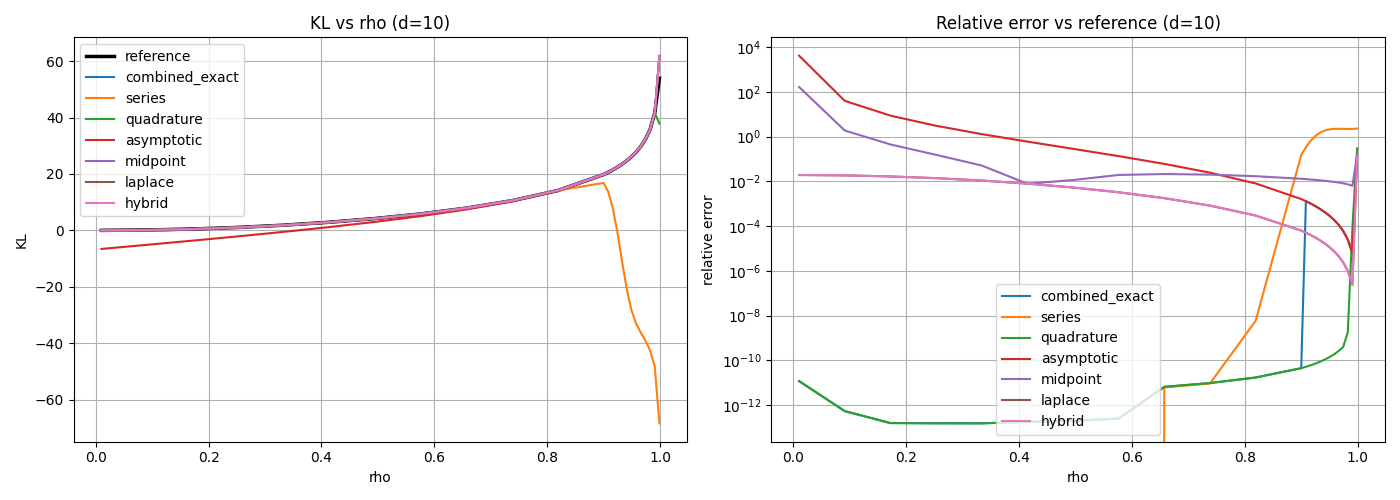
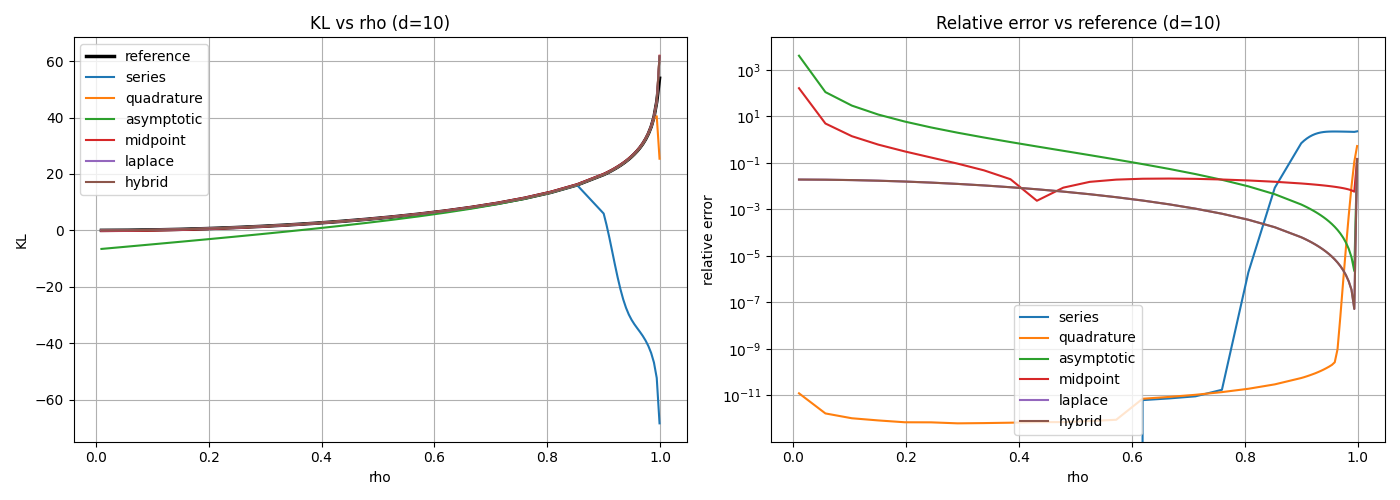
better comparison

diff --git a/tests/test_kl_approximation_comparison.py b/tests/test_kl_approximation_comparison.py
@@ -18,7 +18,6 @@ from src.kl import (
     kl_divergence_spcauchy2,
     kl_divergence_spcauchy_approx,
     kl_divergence_spcauchy_asympt,
-    kl_divergence_spcauchy_combined,
     kl_divergence_spcauchy_reference,
 )
 
@@ -114,11 +113,6 @@ def run_kl_approximation_comparison(
                 dimension,
                 k_terms=max(k_terms, 4000),
                 n_nodes=max(n_nodes, 2000),
-            ),
-            "combined_exact": lambda tensor: kl_divergence_spcauchy_combined(
-                tensor,
-                dimension,
-                n_nodes=n_nodes,
             ),
             "series": lambda tensor: kl_divergence_spcauchy(
                 tensor,
